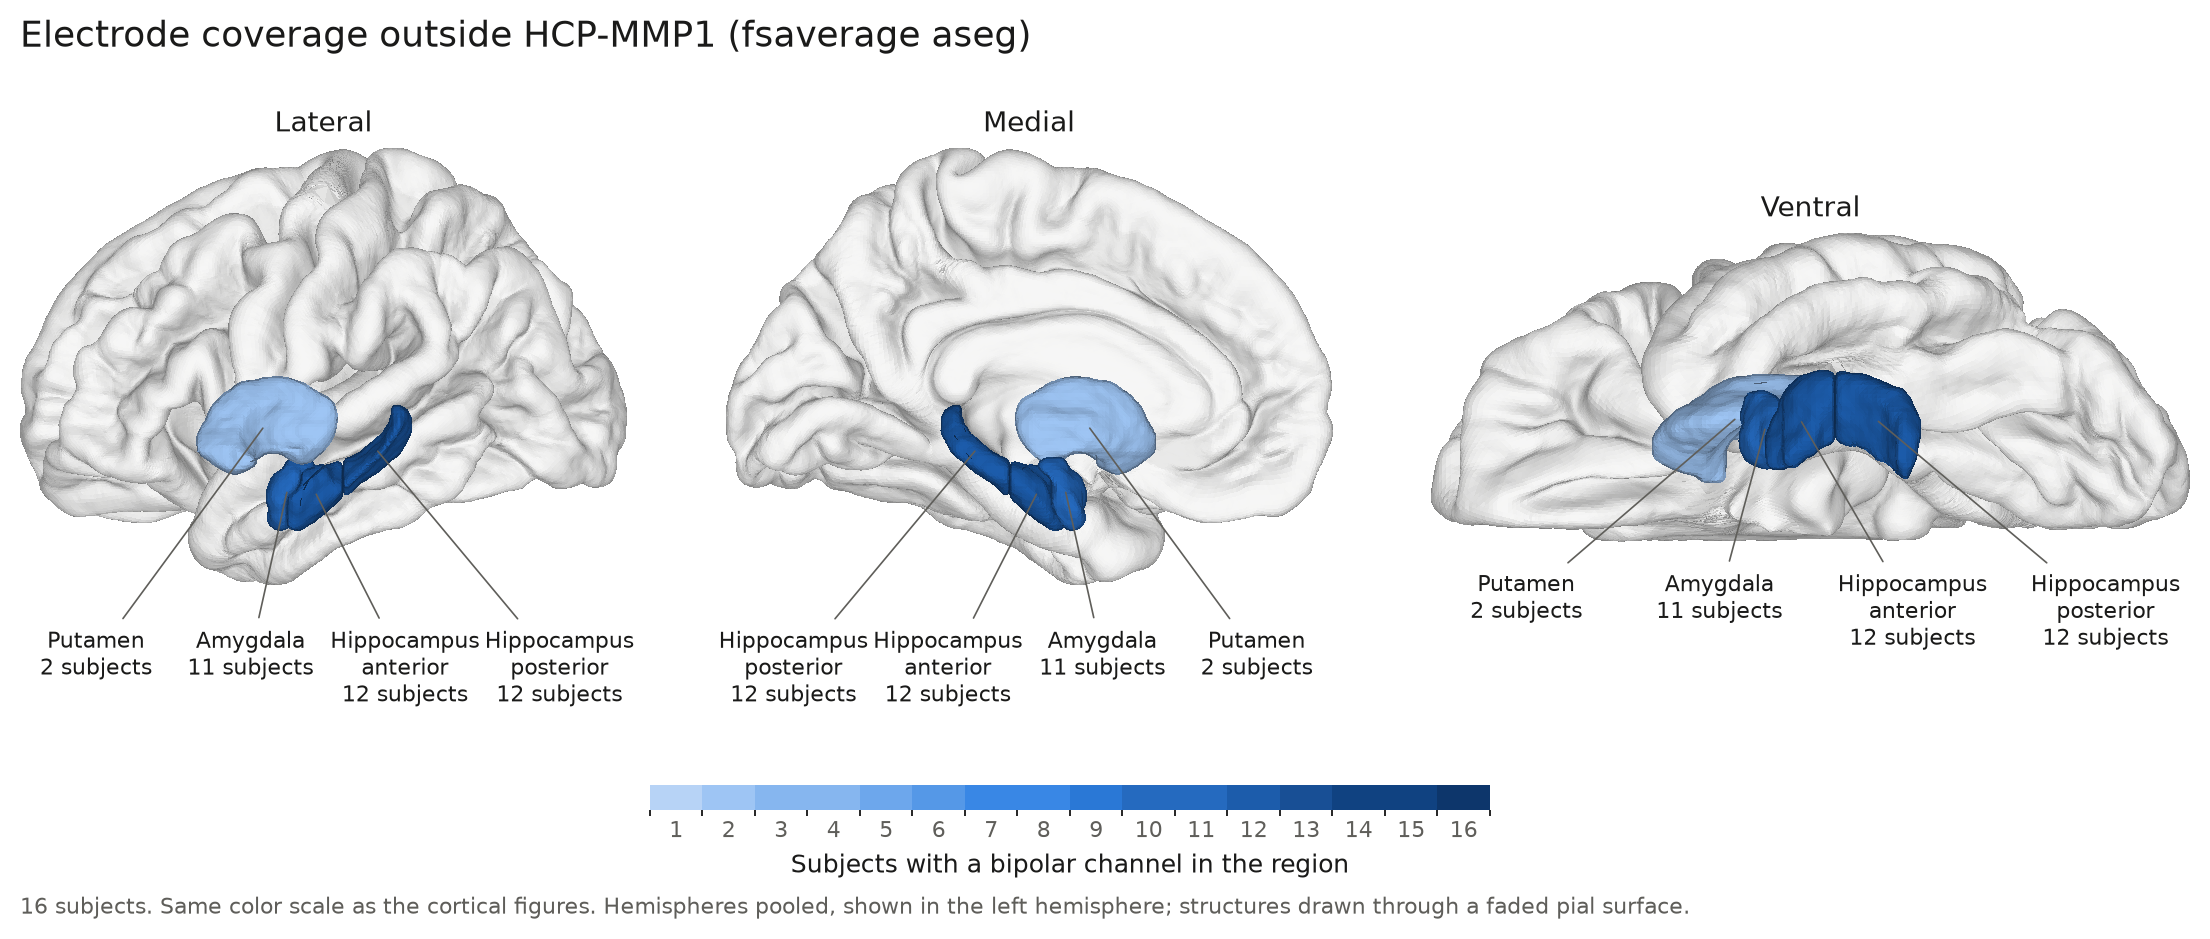
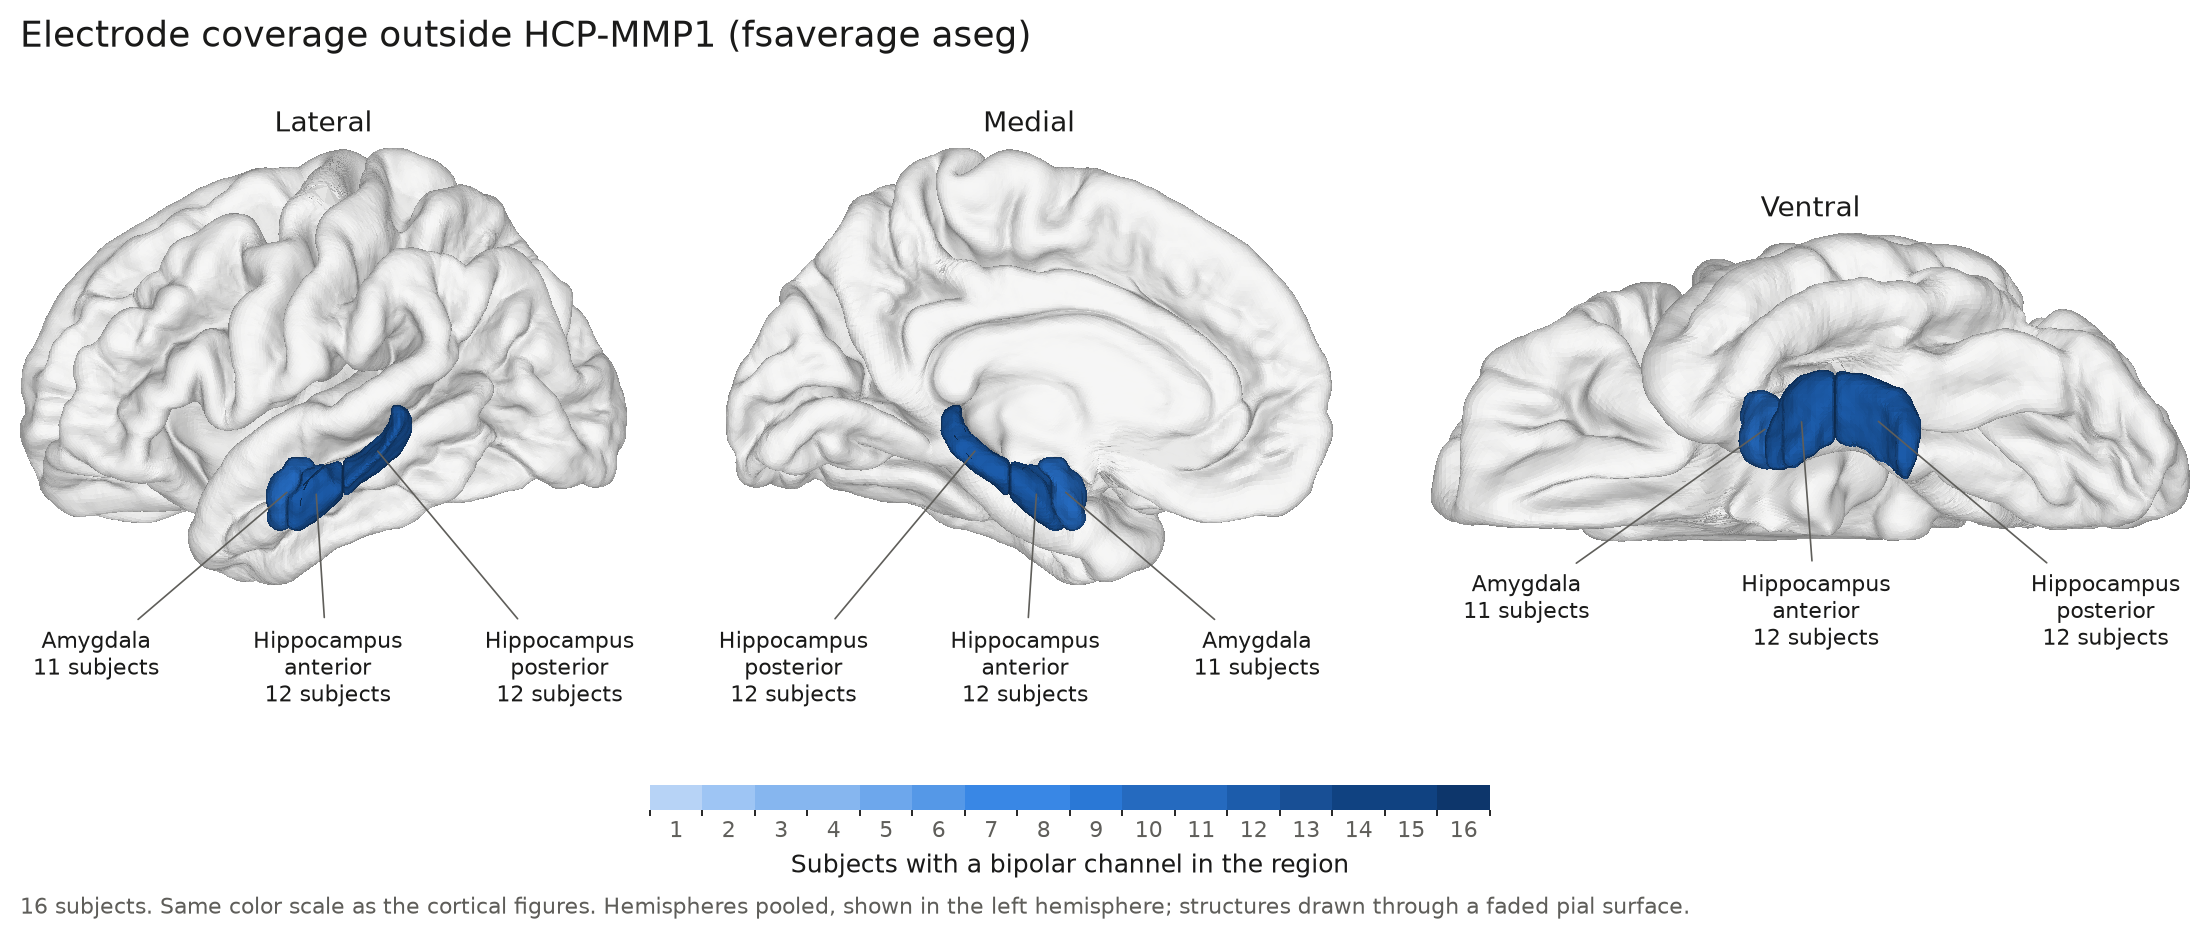
Leave putamen out of the subcortical figures
Putamen (2 subjects) is no longer drawn in the coverage figures or the
SHAP flatmap inset; the flatmap footnote still lists its coverage.

Claude-Session: https://claude.ai/code/session_01E7t6Tc3gYXv9BQMm3eai5Y

diff --git a/electrode coverages/plot_electrode_coverage.py b/electrode coverages/plot_electrode_coverage.py
@@ -6,9 +6,9 @@ without a bipolar channel in it. Coverage is therefore defined per parcel as
 the number of subjects that have data in that parcel. Hemispheres are pooled in
 the feature names, so everything is drawn on the left hemisphere.
 
-Regions that are not in HCP-MMP1 (Amygdala, Hippocampus, Putamen) are drawn as
-meshes extracted from the fsaverage aseg segmentation, inside a faded pial
-surface. Anterior and posterior hippocampus are the aseg hippocampus cut at
+Regions that are not in HCP-MMP1 (Amygdala, anterior/posterior Hippocampus) are
+drawn as meshes extracted from the fsaverage aseg segmentation, inside a faded
+pial surface. Regions in NOT_SHOWN (Putamen) are only listed in the footnotes. Anterior and posterior hippocampus are the aseg hippocampus cut at
 y = -23 mm (HIPPOCAMPUS_SPLIT_Y). All group figures share one color scale running from 1 to the number
 of subjects; the per-subject figures only show present/absent.
 
@@ -54,6 +54,9 @@ ASEG_LABELS = {
     "Hippocampus": 17, "Amygdala": 18, "Accumbens": 26, "VentralDC": 28,
     "Hippocampus-anterior": 17, "Hippocampus-posterior": 17,
 }
+# Regions outside HCP-MMP1 that are left out of the subcortical figures
+# (counted in the footnote only).
+NOT_SHOWN = {"Putamen"}
 # Short names for the per-subject titles.
 SHORT = {"Amygdala": "Amy", "Putamen": "Put", "Hippocampus": "HC",
          "Hippocampus-anterior": "aHC", "Hippocampus-posterior": "pHC"}
@@ -251,9 +254,9 @@ def main():
     cov.astype(int).to_csv(args.out_dir / "coverage_subject_by_region.csv")
     n_subj = cov.sum()
     extra = [r for r in cov.columns if r not in set(parcel)]   # not in HCP-MMP1
-    subcortical = [r for r in extra if r in ASEG_LABELS]
-    if set(extra) - set(subcortical):
-        print("regions not found in HCP-MMP1 or aseg:", sorted(set(extra) - set(subcortical)))
+    subcortical = [r for r in extra if r in ASEG_LABELS and r not in NOT_SHOWN]
+    if set(extra) - set(subcortical) - NOT_SHOWN:
+        print("regions not found in HCP-MMP1 or aseg:", sorted(set(extra) - set(subcortical) - NOT_SHOWN))
 
     # One fixed scale for every group figure: 1 .. number of subjects.
     vmax = len(cov)
@@ -263,7 +266,10 @@ def main():
     rgb = vertex_colors(values, sulc, border, cmap, norm)
 
     sub_txt = "Not in HCP-MMP1 (see coverage_subcortical.png): " + ", ".join(
-        f"{r} {int(n_subj[r])}" for r in extra)
+        f"{r} {int(n_subj[r])}" for r in subcortical)
+    hidden = [r for r in extra if r in NOT_SHOWN]
+    if hidden:
+        sub_txt += "; not shown: " + ", ".join(f"{r} {int(n_subj[r])}" for r in hidden)
     footer = (f"{len(cov)} subjects, {int((n_subj.drop(extra) > 0).sum())} of 180 "
               f"HCP-MMP1 parcels covered. Hemispheres pooled, shown on the left fsaverage hemisphere.")
 
@@ -348,8 +354,8 @@ def main():
         ax.axis("off")
     fig.suptitle("Regions outside HCP-MMP1 with a bipolar channel, per subject (ventral view)",
                  fontsize=13, color=INK, x=0.02, ha="left")
-    fig.text(0.02, -0.02, "Blue: present, gray: absent. Ventral view, anterior to the left: putamen is the "
-             "anterior-lateral shape, amygdala the middle one and hippocampus the long posterior one, "
+    fig.text(0.02, -0.02, "Blue: present, gray: absent. Ventral view, anterior to the left: amygdala is the "
+             "anterior shape and hippocampus the long posterior one, "
              f"split into an anterior and a posterior part at y = {HIPPOCAMPUS_SPLIT_Y:g} mm "
              "(labelled in coverage_subcortical.png).\n"
              "Titles: " + ", ".join(f"{v} = {k}" for k, v in SHORT.items() if k in subcortical) + ".",

diff --git a/shap analysis/plot_new_vs_repeated.py b/shap analysis/plot_new_vs_repeated.py
@@ -48,7 +48,7 @@ from scipy.sparse.csgraph import connected_components
 HERE = Path(__file__).resolve().parent
 REPO = HERE.parent
 sys.path.insert(0, str(REPO / "electrode coverages"))
-from plot_electrode_coverage import (ASEG_LABELS, GYRUS, INK, INK_MUTED, SULCUS,  # noqa: E402
+from plot_electrode_coverage import (ASEG_LABELS, NOT_SHOWN, GYRUS, INK, INK_MUTED, SULCUS,  # noqa: E402
                                      aseg_meshes, draw_flat, draw_glass_brain,
                                      fetch_fsaverage, orient_flatmap, parcel_border,
                                      read_patch)
@@ -149,7 +149,7 @@ def draw_region_map(ax, geo, values: pd.Series, norm, n_labels=0, inset_labels=T
                     fontsize=7, color=INK, arrowprops=dict(arrowstyle="-", color=INK, lw=0.5))
 
     # Amygdala / hippocampus in a ventral glass brain, in the map's empty bottom-left corner.
-    subcortical = [r for r in outside.index if r in ASEG_LABELS]
+    subcortical = [r for r in outside.index if r in ASEG_LABELS and r not in NOT_SHOWN]
     if subcortical:
         missing = [r for r in subcortical if r not in geo.meshes]
         geo.meshes.update(aseg_meshes(geo.paths["aseg.mgz"], missing) if missing else {})
